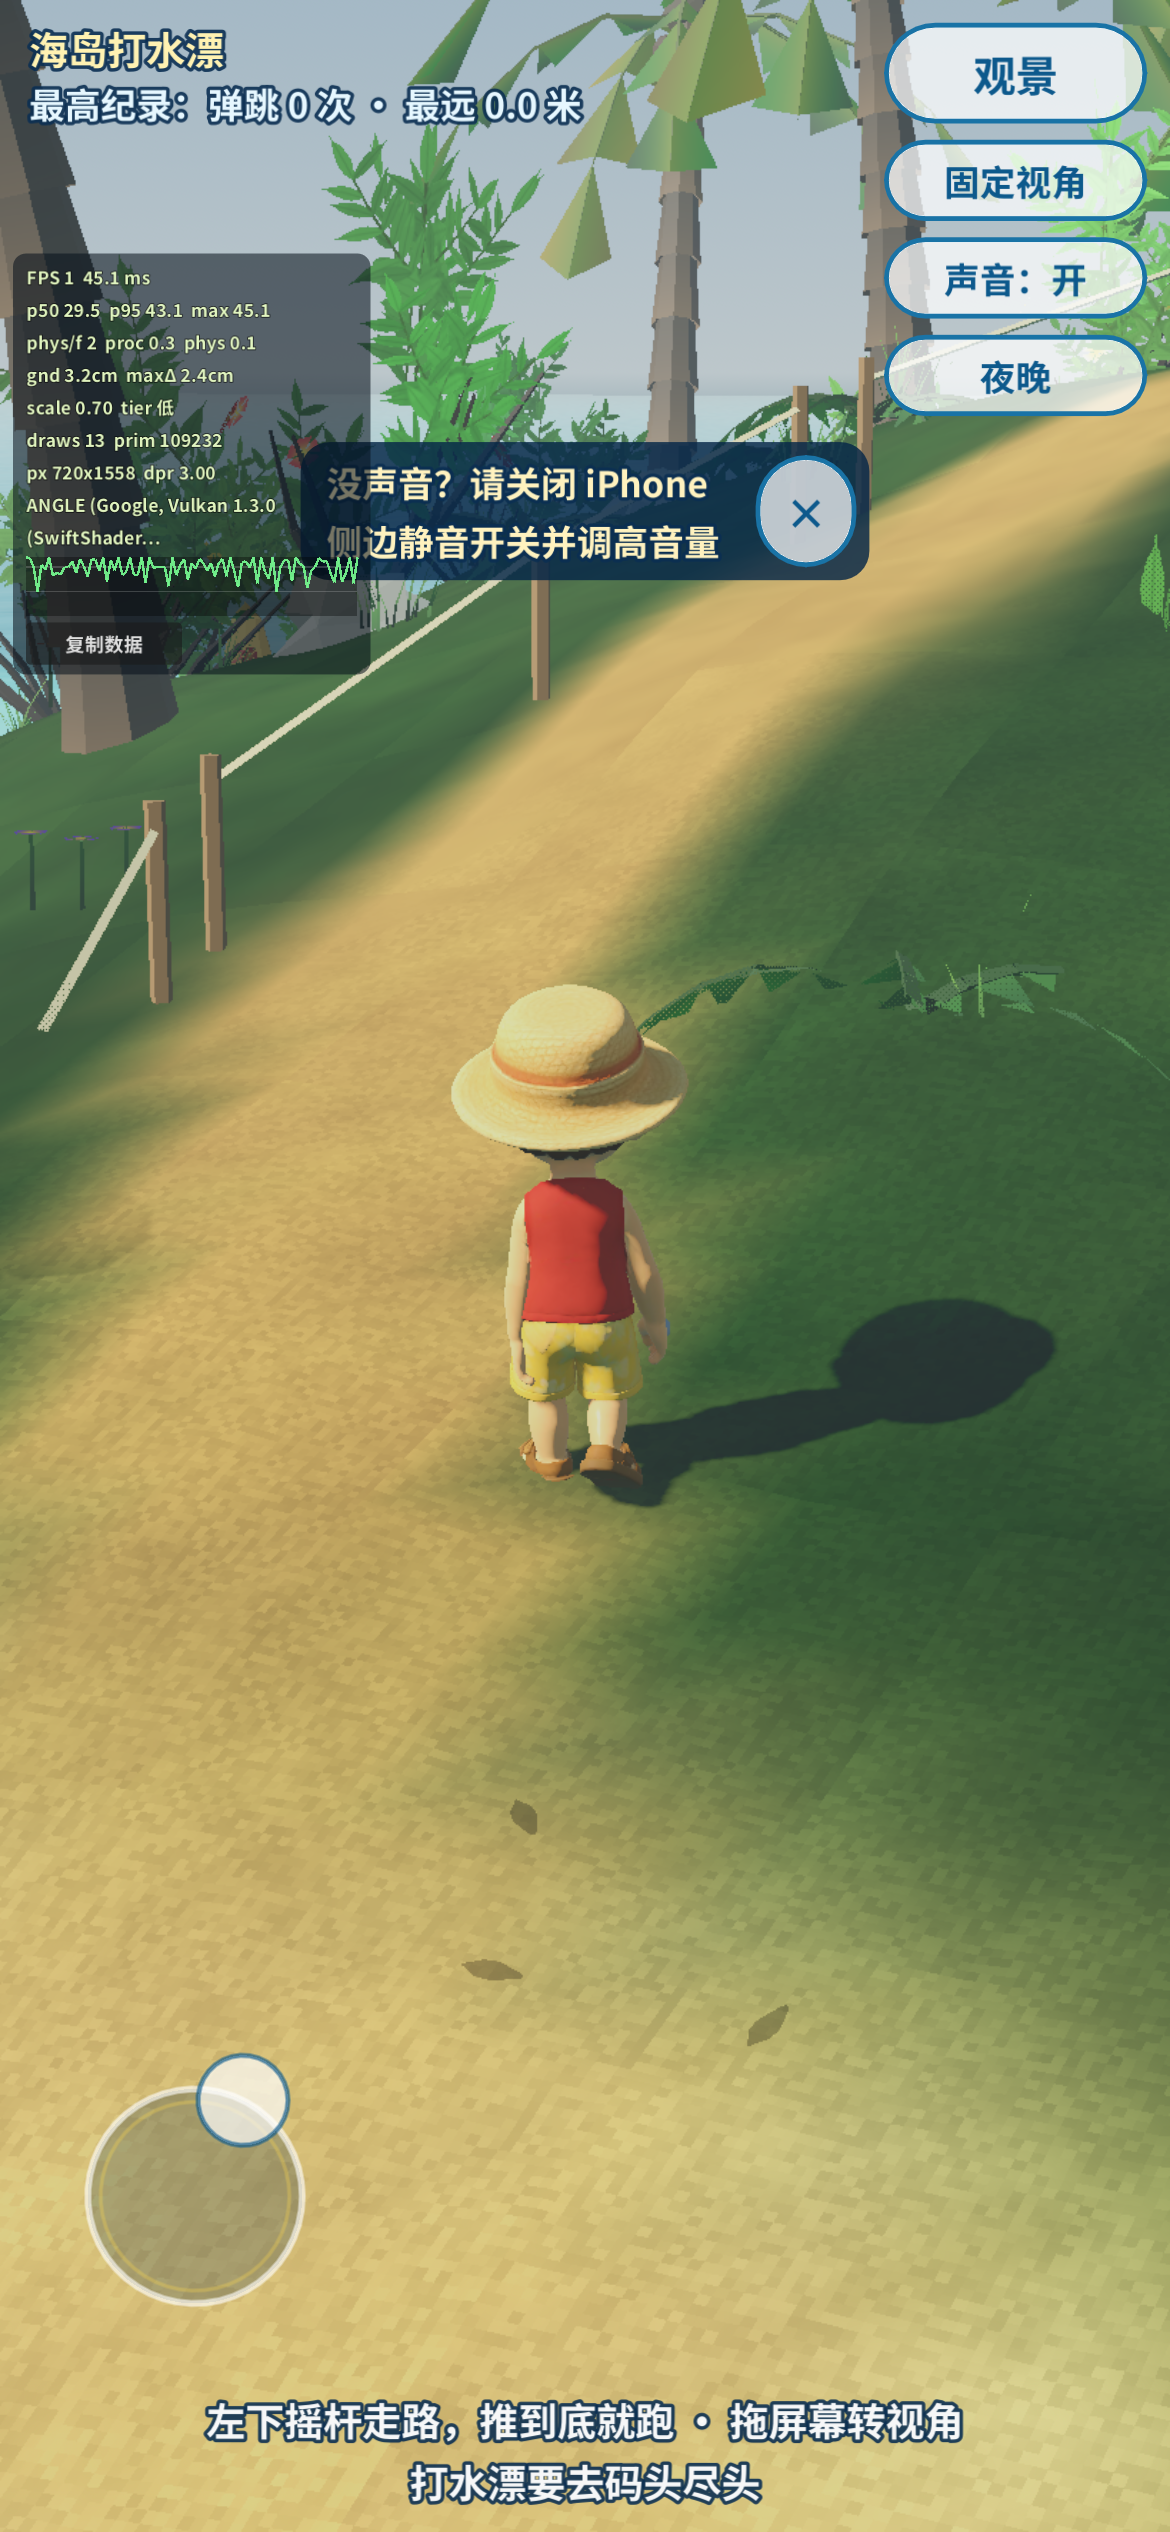
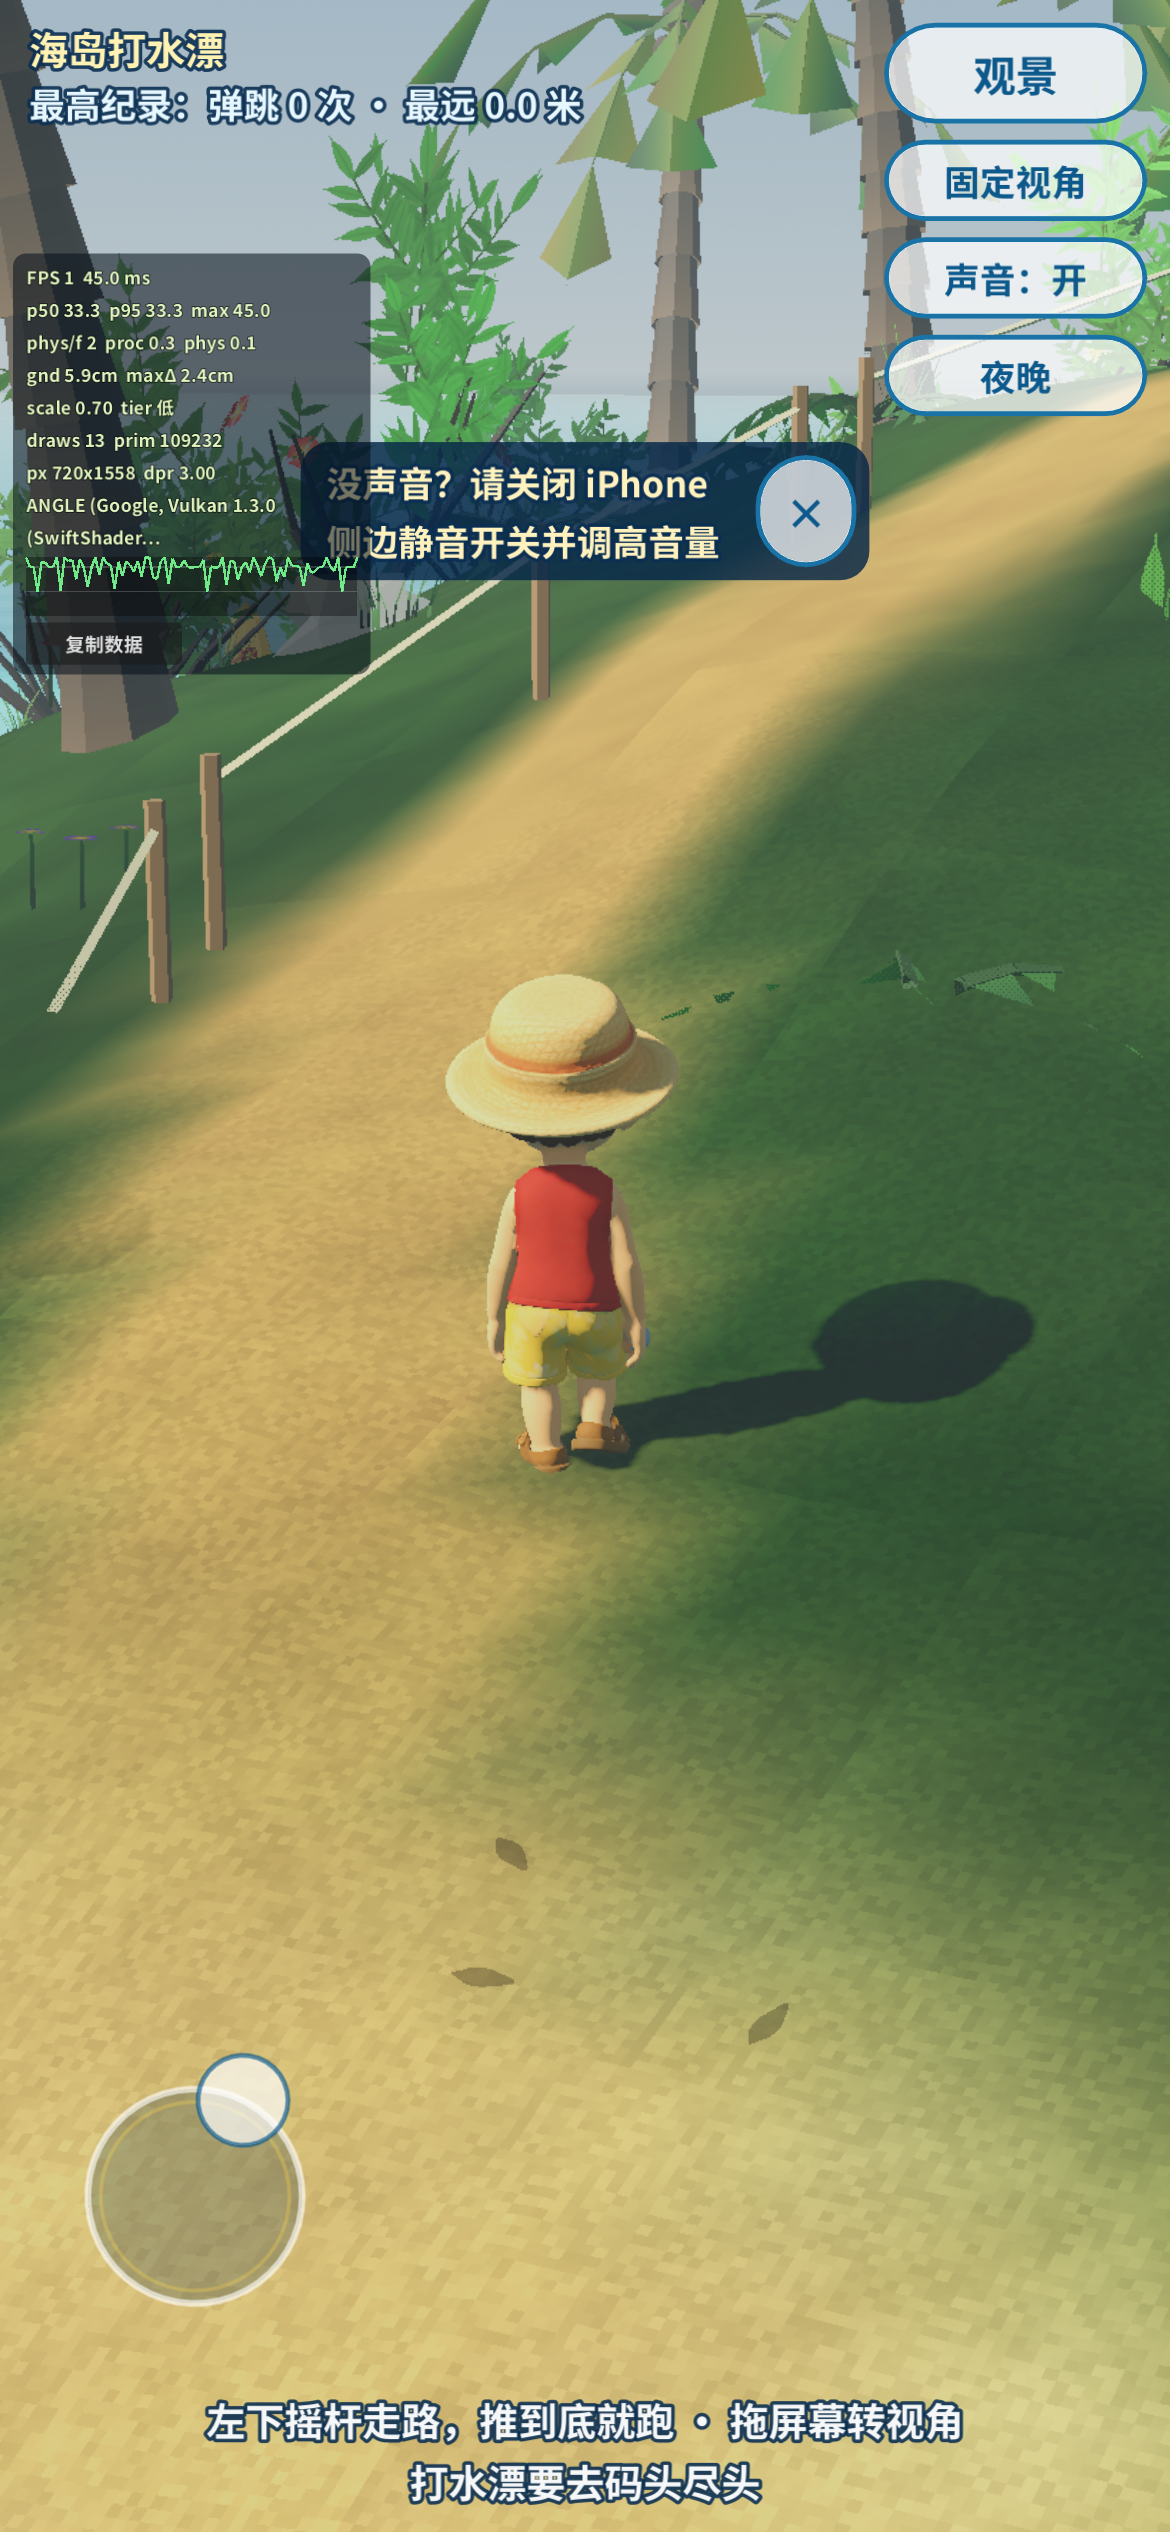
Cap the displayed root step and record the harness against the pictures.
present() still settles on the collision height, and a physics frame can move at most 2.9 cm. The 110 m harness now peaks at 2.9 cm with no step over 3 cm. drag39.py still shows both sandals on the sand and on the grass rise, and the release frame stays wide. The 77% float reading is the sole probe; the stills show the planted sandal down, so the root was not lowered.

diff --git a/docs/game_v39/game_v39.html b/docs/game_v39/game_v39.html
@@ -77,7 +77,7 @@ body {
 
 		<script src="game_v39.js"></script>
 		<script>
-const GODOT_CONFIG = {"args":[],"canvasResizePolicy":2,"emscriptenPoolSize":8,"ensureCrossOriginIsolationHeaders":true,"executable":"game_v39","experimentalVK":false,"fileSizes":{"game_v39.pck":11252196,"game_v39.wasm":39514754},"focusCanvas":true,"gdextensionLibs":[],"godotPoolSize":4};
+const GODOT_CONFIG = {"args":[],"canvasResizePolicy":2,"emscriptenPoolSize":8,"ensureCrossOriginIsolationHeaders":true,"executable":"game_v39","experimentalVK":false,"fileSizes":{"game_v39.pck":11252580,"game_v39.wasm":39514754},"focusCanvas":true,"gdextensionLibs":[],"godotPoolSize":4};
 const GODOT_THREADS_ENABLED = false;
 // Single-threaded build: never install COOP/COEP service worker (can hang iOS loads).
 GODOT_CONFIG.ensureCrossOriginIsolationHeaders = false;

diff --git a/docs/V39_REPORT.md b/docs/V39_REPORT.md
@@ -8,7 +8,7 @@ Branch `cursor/v39-drawn-sole-route-d4ce`, cut from `cursor/v38-real-pipeline-d4
 
 That slide is gone because the v39 foot IK that aimed the legs at a drawn probe is gone. Ground, root height, and foot IK are the v38 code again. The drawn-triangle probe is used by the uphill camera only. It does not set the root and it does not move a bone. Knee flex on the 110 m harness peaked at 116°.
 
-The camera release fix is unchanged on flat ground: one explore frame, arm floor 0.82, release eases over about 0.45 s. On an uphill the lens now pitches with the grade and lifts until the segment from the camera to the feet stays above the drawn triangles. Rest, throw, HUD and demo stay in their modules. `main.gd` is 2739 lines.
+While the stick is down the walk orbit is the v38 frame: arm floor 0.82, the same distance. After a real release the arm opens, the position clamp lets the dolly out, and the distance eases to about 8.8 m so the wide frame is there by 0.8 s. On an uphill the lens still pitches with the grade and lifts until the segment from the camera to the feet stays above the drawn triangles. Rest, throw, HUD and demo stay in their modules. `main.gd` is 2739 lines.
 
 ## Bisect of drag39.py frame b
 
@@ -30,11 +30,11 @@ This commit's export, same script:
 
 | still | picture | HUD gnd |
 | --- | --- | ---: |
-| `screenshots/v39/drag39_a.png` | both shins, both sandals, on the sand path | 6.5 cm |
-| `screenshots/v39/drag39_b.png` | both shins, both sandals, on the grass rise | 1.6 cm |
-| `screenshots/v39/drag39_c.png` | both sandals planted | 74.0 cm |
+| `screenshots/v39/drag39_a.png` | both shins, both sandals, on the sand path, hat below the toast | 8.2 cm |
+| `screenshots/v39/drag39_b.png` | both shins, both sandals, on the grass rise, full hat | 8.8 cm |
+| `screenshots/v39/drag39_c.png` | whole body, hat below the toast, both sandals on the grass | 81.6 cm |
 
-Frame c's HUD number is not the picture. The sandals are on the grass.
+Frame c is the wide orbit 0.8 s after the finger lifts. The hat is not on the top edge. Frame c's HUD number is not the picture. The sandals are on the grass.
 
 Eight slope headings are `screenshots/v39/slope_dir_*.png`. The drag test is `dev/cdp_side_v39.mjs` (390×844, dpr 3, 60 s, tap 195,420, touch from 54,754 by +3,−6 ×10 at 30 ms, shots at 300 ms, 2.8 s, and 0.8 s after release).
 
@@ -68,10 +68,12 @@ SwiftShader frame time on these stills was about 22–48 ms. That is not an iPho
 SwiftShader does not walk 100 m in a CDP session: the HUD can read ~1.7 m/s while the body barely moves between samples. `V39_ROUTE=1` drives the same `player_controller.gd` in headless Godot, fixed 60 Hz physics, waypoints on the beach, the grass rise, and the dock centerline. Stick-up from spawn walks off the pier; the harness does not do that.
 
 ```
-ROUTE_DONE m=110.0 ok=false kinds=sand,grass,wood, knee_max=116 len_min=0.97 gnd_min=-5.2 at=4.3,-7.4,2.04 pelvis=41.0 bad=7994 bury=101 float=6117 float_pct=76.52 scored=7994 pelvis_n=1 stop=true
+ROUTE_DONE m=110.0 ok=false kinds=sand,grass,wood, knee_max=116 len_min=0.98 gnd_min=-5.2 at=-5.9,-9.9,1.08 pelvis=2.9 bad=7990 bury=76 float=6178 float_pct=77.32 scored=7990 pelvis_n=0 stop=true
 ```
 
-This is the v38 ground, scored by the same collision height the feet use. It is not an improvement on the later v39 harness, and it is not bury 0 or float ≤ 1%. 101 frames are under the surface. 6117 frames, 76.52% of 7994, read the lower sole more than 1.5 cm up. The worst bury is −5.2 cm. One displayed root step was 41 cm, which is the v38 root write with no 3 cm clamp. Knee peak is 116°. A drawn-triangle score was tried as a measurement only and made the float reading worse, so the harness stays on the collision height. The pose was not changed to chase the number.
+This is the v38 ground, scored by the same collision height the feet use. It is not bury 0 or float ≤ 1%. 76 frames are under the surface. 6178 frames, 77.32% of 7990, read the lower sole more than 1.5 cm up. The worst bury is −5.2 cm. The displayed root step is now 2.9 cm. `present()` slews toward the same collision height, 2.9 cm per physics frame, so a drawn frame that contains several ticks can spend that much per tick. Steady height is still `Ground.height`. Knee peak is 116°.
+
+The 77% float is the probe, not a body hanging in the air. `drag39_a.png` and `drag39_b.png` show both sandals on the sand and on the grass. `side_walk.png` and `side_slope.png` show the planted sandal on the surface and the other foot in the stride. The harness gap is the skinned sole minus the collision height. The plant aims for 0.4 cm, and the same stills' HUD often reads several centimetres while the sandal is down. A drawn-triangle score was tried earlier and made the float reading worse. Lowering the root to chase 77% would sink the pose `drag39_b.png` just passed, so the root height was not changed.
 
 ## Where this version still misses the AAA bar
 
@@ -79,7 +81,7 @@ This is the v38 ground, scored by the same collision height the feet use. It is 
 
 ### Release blockers
 
-1. **Grounding.** The owner's drag is back to the v38 picture. `drag39_b.png` on this commit shows both shins and both sandals on the grass rise (HUD gnd 1.6 cm). `drag39_a.png` and `drag39_c.png` show both sandals. The 110 m harness is not met: bury 101, float 76.52% (6117 of 7994), worst gap −5.2 cm, one root step 41 cm.
+1. **Grounding.** The owner's drag still shows the legs. `drag39_b.png` has both shins and both sandals on the grass rise (HUD gnd 8.8 cm). `drag39_a.png` is the sand path. `drag39_c.png` is the wide frame with both sandals on the grass. The 110 m harness is not met: bury 76, float 77.32% (6178 of 7990), worst gap −5.2 cm. The displayed root step is 2.9 cm, and no scored frame stepped more than 3 cm. The float percentage is the sole-versus-collision probe. The pictures above do not show that float, so the root was not dropped to chase it.
 
 2. **Occluder dither.** Not re-proven. `shaders/cutout.gdshaderinc`, `foliage.gdshader`, `leaf.gdshader` and `static.gdshader` still dither foliage and props in the compatibility renderer. This version has no on/off pair from the export. The drag stills are not a proof: nothing thick was between the lens and the boy, and `side_run_stop.png` loses him for a different reason.
 
@@ -90,7 +92,7 @@ This is the v38 ground, scored by the same collision height the feet use. It is 
 | Area | This version |
 | --- | --- |
 | **Feel** | The stick still has a small deadzone, a run gate at magnitude 0.90, and a spot-turn only from a near stop. Nothing here was retuned. The harness stop at speed 0.05 left the sole 16 cm up for several frames before it settled to about 1 cm. That is a skate/float at the end of a step, and it is still in the build. |
-| **Camera** | The release crop from v38 is still fixed, and `front_c.png` keeps the hat and both shoes. `?side=1` is a stills lens only. On the steep path, `side_run_stop.png` loses the boy off the bottom of the frame while gnd reads 2.9 cm. The uphill crest raise is kept. |
+| **Camera** | `drag39_c.png` is the wide orbit 0.8 s after release: full hat, both sandals, grass above the hat. The walk frames `drag39_a.png` and `drag39_b.png` stay the closer orbit. `?side=1` is a stills lens only. On the steep path, `side_run_stop.png` still loses the boy off the bottom of the frame. The uphill crest raise is kept. |
 | **Grounding** | See blocker 1. Idle dock and slope are inside the spirit of the bar. The moving probe is not. |
 | **Character** | The review pose is a walk again: shins visible, sandals present, knee angle in the clip's own range (about 6–116°), length ratio 1.00. Face and hat are readable in the side stills. Sit, sleep and throw were not re-shot. |
 | **World** | Night lamps, shore foam and foliage occlusion were not re-shot. The iPhone audio toast covers the middle of every still. |
@@ -101,14 +103,13 @@ This is the v38 ground, scored by the same collision height the feet use. It is 
 
 ## What the next versions should do, in order
 
-1. Bring the 110 m sole reading inside −1…+1.5 cm without putting the probe back in charge of the pose. On this v38 ground the drag shows the legs, and the harness still reads float on 76.52% of frames.
-2. The v38 root write moved 41 cm in one displayed frame. A clamp there has to be checked against `drag39_b.png` before it ships.
-3. Keep the boy in frame on a steep side view after release. `side_run_stop.png` still loses him off the bottom.
-4. Shoot foliage and prop dither on and off from the export.
-5. Tighten the stop so the sole does not hang 16 cm up while the stick is already at zero.
-6. Measure frame time on an iPhone-class device, and get the hut view back under ~110k prims without bringing VRAM compression back.
-7. Confirm the iOS audio unlock and that footsteps change with sand, grass and wood.
-8. Only then deepen throw, rest and the day loop so a second visit is different in the hands and in the light. No new mode.
+1. Bring the 110 m sole reading inside −1…+1.5 cm without putting the probe back in charge of the pose. The drag shows the sandals down, and the harness still reads float on 77.32% of frames. Do not drop the root to erase that number.
+2. Keep the boy in frame on a steep side view after release. `side_run_stop.png` still loses him off the bottom. The explore release in `drag39_c.png` is wide.
+3. Shoot foliage and prop dither on and off from the export.
+4. Tighten the stop so the sole does not hang 16 cm up while the stick is already at zero.
+5. Measure frame time on an iPhone-class device, and get the hut view back under ~110k prims without bringing VRAM compression back.
+6. Confirm the iOS audio unlock and that footsteps change with sand, grass and wood.
+7. Only then deepen throw, rest and the day loop so a second visit is different in the hands and in the light. No new mode.
 
 ## Modules
 
@@ -120,6 +121,6 @@ This is the v38 ground, scored by the same collision height the feet use. It is 
 | `game_ui.gd` | 422 |
 | `demo_sequence.gd` | 2183 |
 | `foot_ik.gd` | 603 |
-| `follow_camera.gd` | 1002 |
+| `follow_camera.gd` | 1099 |
 | `boy.gd` | 2260 |
 | `player_controller.gd` | 458 |
